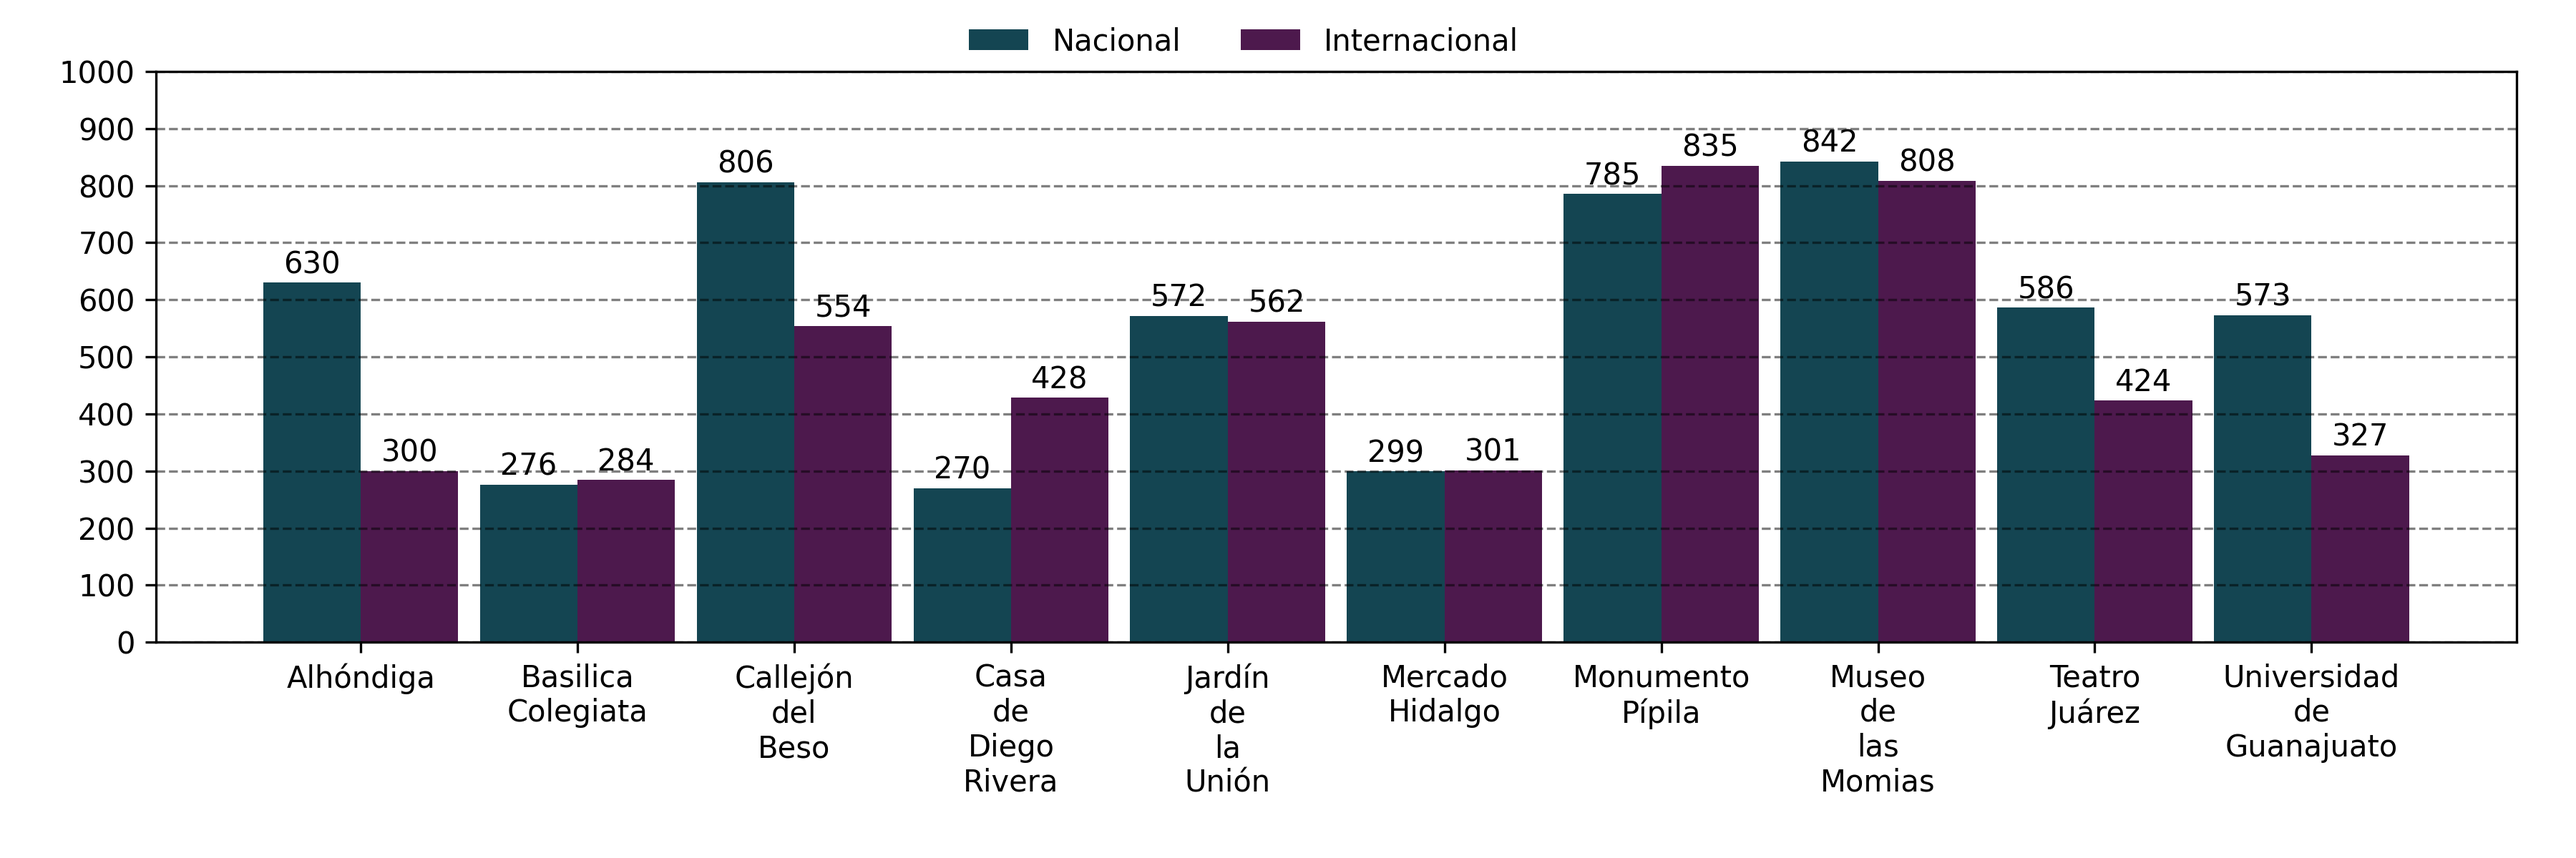
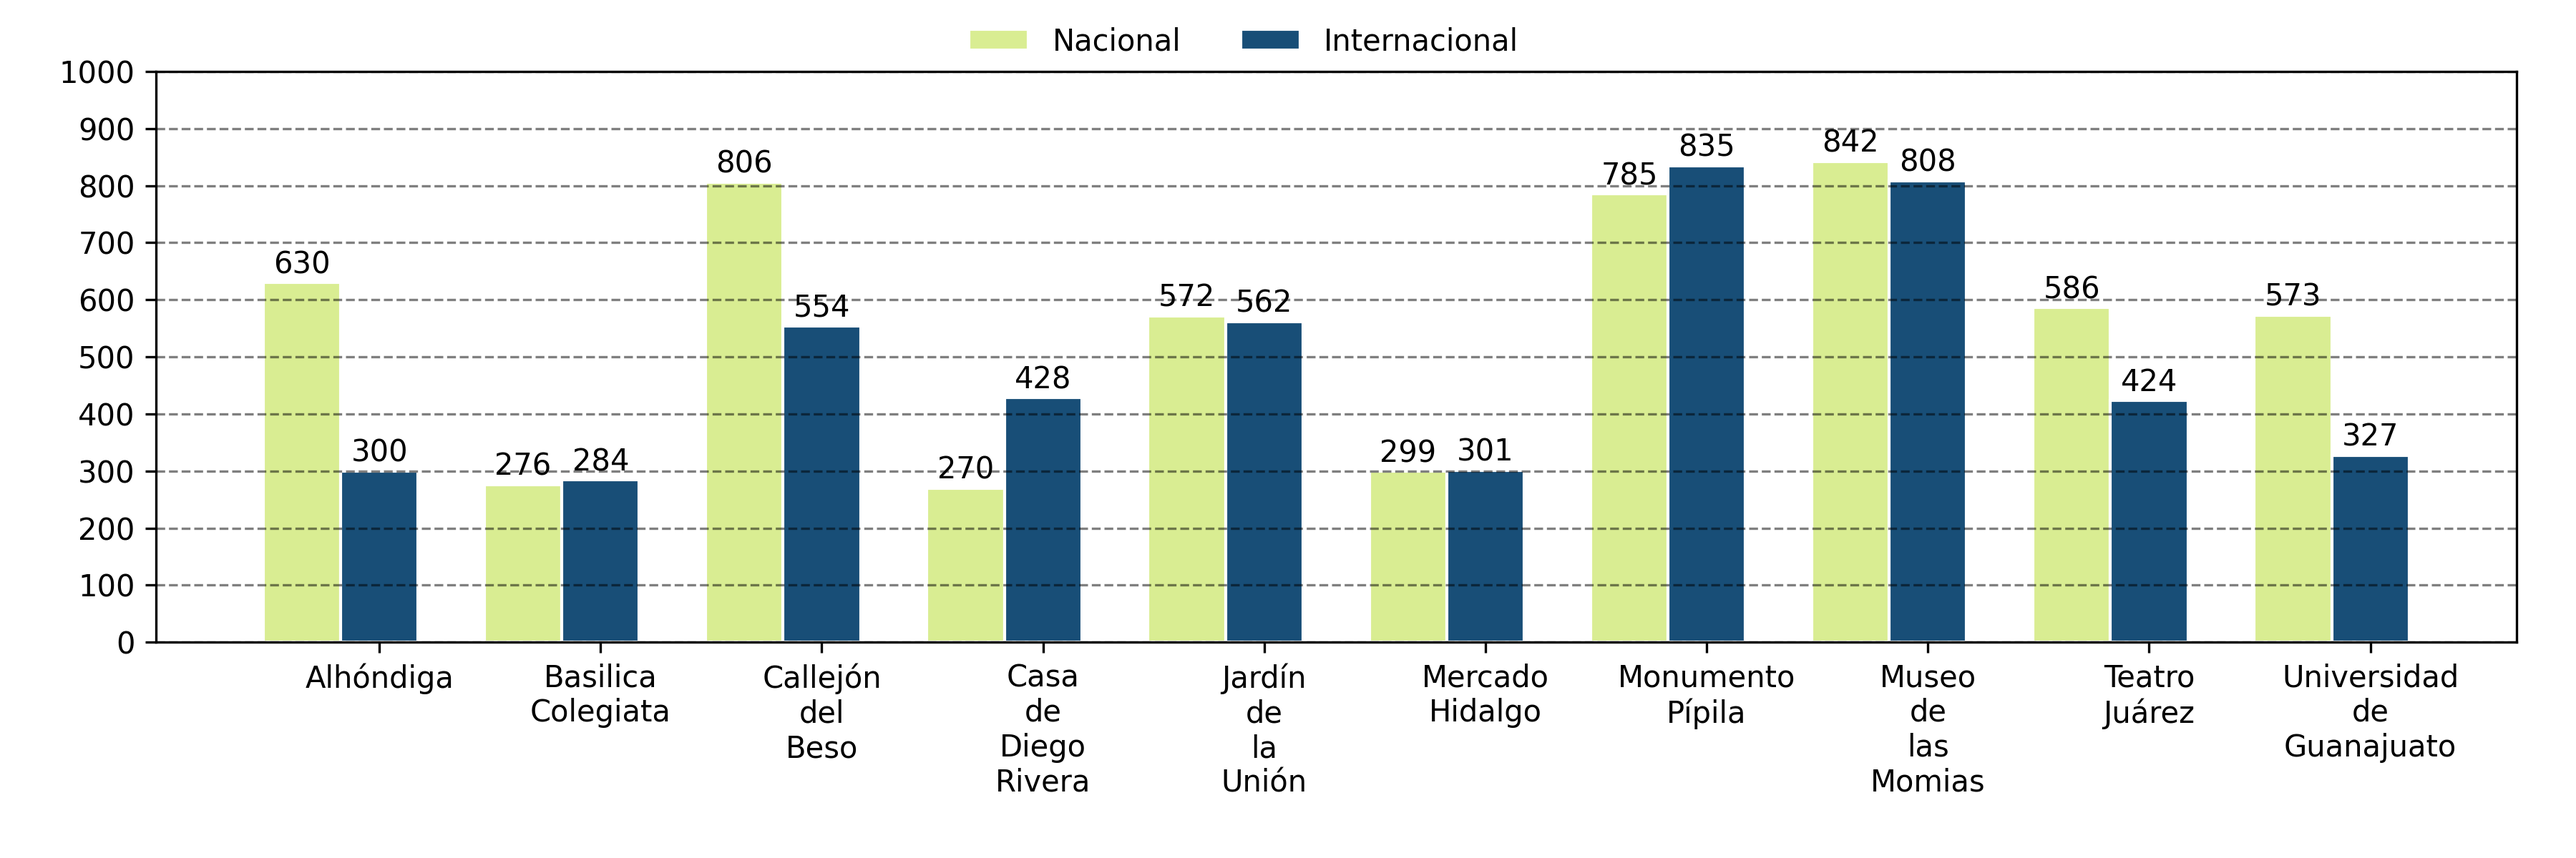
Add distribution of scores and update bars

diff --git a/Lenguaje/Proyectos/Proyectos_01/Scripts/Modules/Graphics.py b/Lenguaje/Proyectos/Proyectos_01/Scripts/Modules/Graphics.py
@@ -6,30 +6,32 @@ from numpy import arange
 
 
 def plot_bars(data: DataFrame, dataset: parameters_model, parameters: dict) -> None:
-    data1 = data[parameters["keys"][0]]
-    data2 = data[parameters["keys"][1]]
+    n_bar = len(parameters["keys"])
     width = parameters["width"]
     values = arange(len(data.index))
     names = [name.replace(" ", "\n") for name in data.index]
     fig, ax = plt.subplots(figsize=(12, 4))
-    bar1 = ax.bar(values-width/2,
-                  data1,
-                  width=width,
-                  label=parameters["labels"][0],
-                  color="#144552")
-    bar2 = ax.bar(values+width/2,
-                  data2,
-                  width=width,
-                  label=parameters["labels"][1],
-                  color="#4d194d")
-    ax.bar_label(bar1, padding=1, fmt=parameters["format"])
-    ax.bar_label(bar2, padding=1, fmt=parameters["format"])
+    bars = []
+    for i, (key, label, color) in enumerate(zip(parameters["keys"],
+                                                parameters["labels"],
+                                                parameters["colors"])):
+        bar = ax.bar(values + width*(n_bar*i-n_bar)/n_bar,
+                     data[key],
+                     width=width,
+                     label=label,
+                     edgecolor='white',
+                     color=color)
+        bars += [bar]
+    for bar in bars:
+        ax.bar_label(bar,
+                     padding=1,
+                     fmt=parameters["format"],
+                     )
     ax.set_xticks(values, names)
     ax.set_ylim(0, parameters["y lim"])
-    ax.set_yticks(
-        arange(0,
-               parameters["y lim"]+parameters["y delta"],
-               parameters["y delta"]))
+    ax.set_yticks(arange(0,
+                         parameters["y lim"] + parameters["y delta"],
+                         parameters["y delta"]))
     ax.grid(ls="--",
             color="#000000",
             alpha=0.5,
@@ -37,13 +39,14 @@ def plot_bars(data: DataFrame, dataset: parameters_model, parameters: dict) -> N
     filename = join_path(dataset.parameters["path graphics"],
                          parameters["file graphics"])
     fig.legend(frameon=False,
-               ncol=2,
+               ncol=n_bar,
                bbox_to_anchor=(0.6, 1))
     plt.tight_layout(pad=2)
     plt.savefig(filename, dpi=300)
 
 
-def plot_ages_histogram(ages: list, dataset: parameters_model, parameters: dict) -> None:
+def plot_ages_histogram(ages: list, dataset: parameters_model,
+                        parameters: dict) -> None:
     nameplace = obtain_name_place_from_filename(parameters["filename"])
     filename = join_path(dataset.parameters["path graphics"],
                          parameters["filename"])
@@ -52,7 +55,7 @@ def plot_ages_histogram(ages: list, dataset: parameters_model, parameters: dict)
     ylim = dataset.graphics[nameplace]["y lim"]
     ydelta = dataset.graphics[nameplace]["y delta"]
     ages_list = arange(min_age, max_age, 1, dtype=int)
-    bins = int(max_age-min_age)
+    bins = int(max_age - min_age)
     fig, ax = plt.subplots(figsize=(14, 6))
     ax.hist(ages,
             bins=bins,
@@ -60,15 +63,12 @@ def plot_ages_histogram(ages: list, dataset: parameters_model, parameters: dict)
             color="#9d0208",
             alpha=0.5,
             edgecolor='white')
-    ax.set_xlim(min_age, max_age+1)
+    ax.set_xlim(min_age, max_age + 1)
     ax.set_xticks(ages_list)
     ax.set_ylim(0, ylim)
-    ax.set_yticks(arange(0, ylim+ydelta, ydelta))
+    ax.set_yticks(arange(0, ylim + ydelta, ydelta))
     ax.set_xlabel("Edades")
     ax.set_ylabel("Número de usuarios")
-    ax.grid(ls="--",
-            alpha=0.5,
-            color="#000000",
-            axis="y")
+    ax.grid(ls="--", alpha=0.5, color="#000000", axis="y")
     plt.tight_layout()
     plt.savefig(filename, dpi=300)

diff --git a/Lenguaje/Proyectos/Proyectos_01/Scripts/Obtain_distribution_scores.py b/Lenguaje/Proyectos/Proyectos_01/Scripts/Obtain_distribution_scores.py
@@ -1,0 +1,32 @@
+from Modules.functions import join_path, obtain_name_place_from_filename
+from Modules.datasets import parameters_model
+from Modules.data import tripadvisor_model
+from pandas import DataFrame
+from os import listdir as ls
+
+filename = "distribution_scores.csv"
+dataset = parameters_model()
+tripadvisor = tripadvisor_model(dataset)
+files = sorted(ls(dataset.parameters["path data"]))
+results = {}
+result_basis = {"Positivo": 0,
+                "Neutro": 0,
+                "Negativo": 0}
+for file in files:
+    nameplace = obtain_name_place_from_filename(file)
+    tripadvisor.read_data(file)
+    result = tripadvisor.data["Escala"].value_counts()
+    results[nameplace] = result_basis.copy()
+    for key in result.keys():
+        if key in [4, 5]:
+            key_name = "Positivo"
+        if key in [3]:
+            key_name = "Neutro"
+        if key in [1, 2]:
+            key_name = "Negativo"
+        results[nameplace][key_name] = result[key]
+results = DataFrame(results)
+results.index.name = "Calificación"
+filename = join_path(dataset.parameters["path results"],
+                     filename)
+results.to_csv(filename)

diff --git a/Lenguaje/Proyectos/Proyectos_01/Scripts/Graphics_distribution_scores.py b/Lenguaje/Proyectos/Proyectos_01/Scripts/Graphics_distribution_scores.py
@@ -3,14 +3,14 @@ from Modules.functions import join_path
 from Modules.Graphics import plot_bars
 from pandas import read_csv
 
-parameters = {"file results": "distribution_nationality.csv",
-              "file graphics": "distribution_nationality.png",
+parameters = {"file results": "distribution_scores.csv",
+              "file graphics": "distribution_scores.png",
               "width": 0.35,
-              "y lim": 1000,
+              "y lim": 600,
               "y delta": 100,
-              "keys": ["Nacional", "Internacional"],
-              "labels": ["Nacional", "Internacional"],
-              "colors":   ["#d9ed92", "#184e77"],
+              "keys": ["Positivo", "Neutro", "Negativo"],
+              "labels": ["Positivo", "Neutro", "Negativo"],
+              "colors":   ["#d9ed92", "#34a0a4", "#184e77"],
               "format": "%.0f"}
 dataset = parameters_model()
 filename = join_path(dataset.parameters["path results"],

diff --git a/Lenguaje/Proyectos/Proyectos_01/Scripts/Graphics_mean_and_std_words_length.py b/Lenguaje/Proyectos/Proyectos_01/Scripts/Graphics_mean_and_std_words_length.py
@@ -5,12 +5,13 @@ from pandas import read_csv
 
 parameters = {"file results": "mean_std_words_length.csv",
               "file graphics": "mean_std_words_length.png",
-              "width": 0.45,
+              "width": 0.35,
               "y lim": 70,
               "y delta": 10,
               "keys": ["Mean", "std"],
               "labels": ["Media", "Desviación estandar"],
-              "format": "%.3f"}
+              "colors":   ["#d9ed92", "#184e77"],
+              "format": "%.2f"}
 dataset = parameters_model()
 filename = join_path(dataset.parameters["path results"],
                      parameters["file results"])

diff --git a/Lenguaje/Proyectos/Proyectos_01/Scripts/Graphics_mean_and_std_scores.py b/Lenguaje/Proyectos/Proyectos_01/Scripts/Graphics_mean_and_std_scores.py
@@ -5,12 +5,13 @@ from pandas import read_csv
 
 parameters = {"file results": "mean_std_scores.csv",
               "file graphics": "mean_std_scores.png",
-              "width": 0.45,
+              "width": 0.35,
               "y lim": 5,
               "y delta": 0.5,
               "keys": ["Mean", "std"],
               "labels": ["Media", "Desviación estandar"],
-              "format": "%.3f"}
+              "colors":   ["#d9ed92", "#184e77"],
+              "format": "%.2f"}
 dataset = parameters_model()
 filename = join_path(dataset.parameters["path results"],
                      parameters["file results"])
